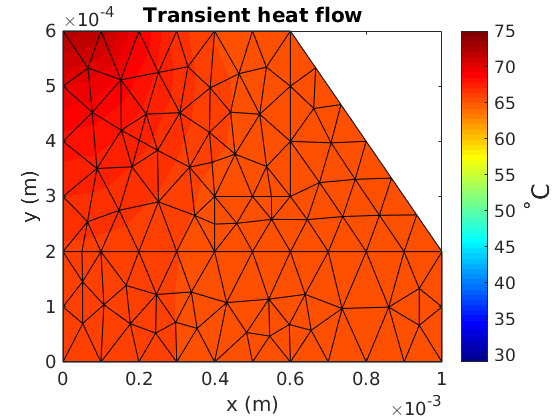
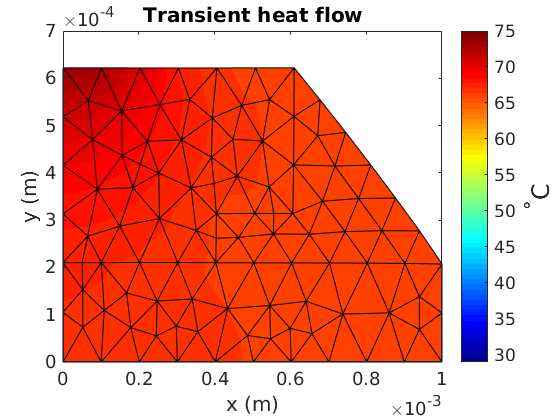
latest

Changed region(s): [[0.0607, 0.0619, 0.7893, 0.8667], [0.6375, 0.8048, 0.6679, 0.8667]]

diff --git a/part2.m b/part2.m
@@ -97,12 +97,13 @@ end
 ed = extract(edof,Seff_nod);
 figure(8);
 h = fill(ex',ey',ed');
-title('Von Mises stress field','FontSize', 26);
+set(gca,'fontsize',14)
+title('Von Mises stress field','FontSize', 18);
 c = colorbar;
 xlabel('x (m)','FontSize',18);
 ylabel('y (m)','FontSize',18);
 ylabel(c,'Pa','FontSize',18);
-set(gca,'fontsize',14)
+
 % set(h,'EdgeColor','none')
 colormap(jet);
  
@@ -118,7 +119,7 @@ eldraw2(ex,ey,[1,2,1])
  
  [ex,ey]=coordxtr(edof,coord,(1:ndof)',3); 
 eldraw2(ex,ey,[1,4,2])  
-title('Displacement field','FontSize', 20)
+set(gca,'fontsize',14)
+title('Displacement field','FontSize', 18)
 xlabel('x (m)','FontSize',18);
 ylabel('y (m)','FontSize',18);
-set(gca,'fontsize',14)

diff --git a/transient_heat_flow.m b/transient_heat_flow.m
@@ -16,7 +16,7 @@ for i = 2:6
     if(i == 6)
         timenbr = 1000;
     end
-    ed = extract(edof,a_t(:,timenbr)-274.15);
+    ed = extract(edof,a_t(:,timenbr)-273.15);
     timenbr = timenbr+20;
     h = fill(ex',ey',ed');
     title('Transient heat flow','FontSize', 20);
@@ -40,3 +40,5 @@ set(gca,'fontsize',14)
 colorbar;
 colormap(jet);
 % set(h,'EdgeColor','none')
+
+diff_trans_stat = sum(abs(a_t(:,time)) - abs(a_stationary))
